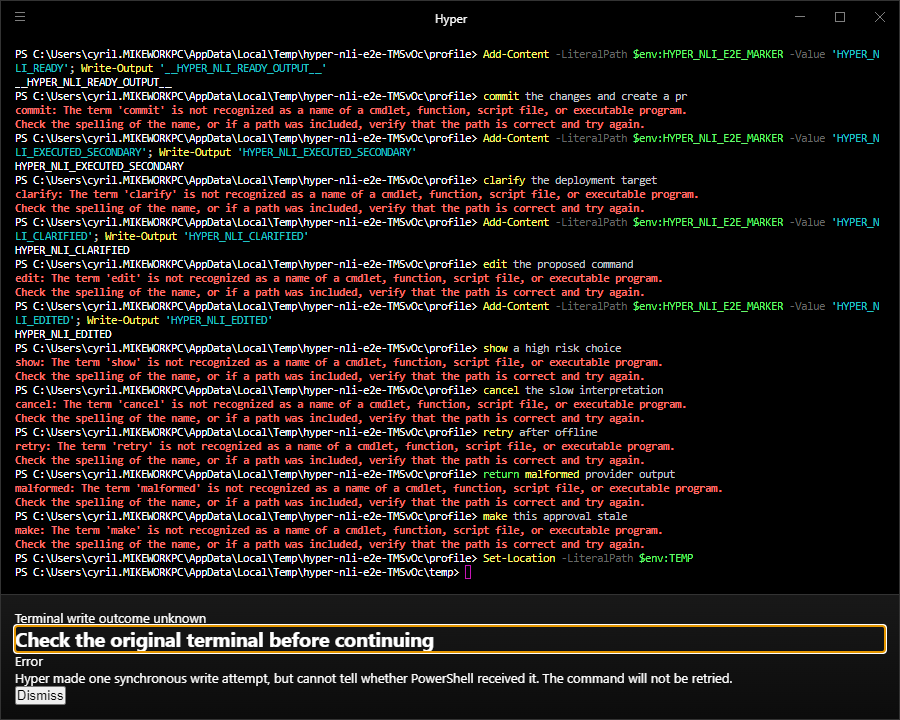
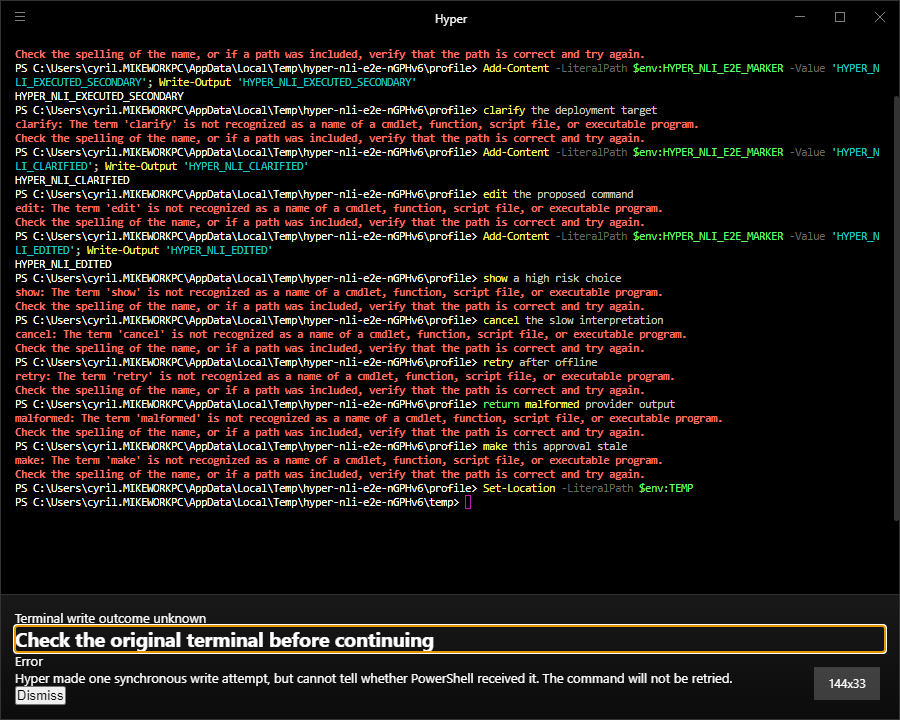
fix(nli): coordinate privacy across windows

Changed region(s): [[0.0, 0.0611, 1.0, 0.825], [0.9022, 0.9167, 0.9956, 0.9778]]

diff --git a/test/unit/nli-window-coordinator.test.ts b/test/unit/nli-window-coordinator.test.ts
@@ -1,0 +1,80 @@
+import {readFileSync} from 'fs';
+import {resolve} from 'path';
+
+import test from 'ava';
+
+import {createNliWindowCoordinator} from '../../app/nli/window-coordinator';
+import type {NliAuthState} from '../../typings/nli';
+
+const makeRegistration = () => {
+  const auth: NliAuthState[] = [];
+  let logoutCalls = 0;
+  let resetCalls = 0;
+  return {
+    auth,
+    get logoutCalls() {
+      return logoutCalls;
+    },
+    get resetCalls() {
+      return resetCalls;
+    },
+    registration: {
+      service: {
+        logout() {
+          logoutCalls++;
+          return Promise.resolve();
+        },
+        resetPrivacyPreferences() {
+          resetCalls++;
+          return Promise.resolve();
+        }
+      },
+      broadcastAuth(state: NliAuthState) {
+        auth.push(state);
+      }
+    }
+  };
+};
+
+test('privacy reset and logout fan out across every registered Hyper window', async (t) => {
+  const coordinator = createNliWindowCoordinator();
+  const first = makeRegistration();
+  const second = makeRegistration();
+  coordinator.register(first.registration);
+  coordinator.register(second.registration);
+
+  await coordinator.resetPrivacy();
+  await coordinator.logout();
+
+  for (const registration of [first, second]) {
+    t.is(registration.resetCalls, 1);
+    t.is(registration.logoutCalls, 1);
+    t.deepEqual(registration.auth, [{status: 'unknown'}, {status: 'signed-out'}]);
+  }
+});
+
+test('unregistered windows cannot receive later privacy or authentication updates', async (t) => {
+  const coordinator = createNliWindowCoordinator();
+  const closed = makeRegistration();
+  const open = makeRegistration();
+  const unregister = coordinator.register(closed.registration);
+  coordinator.register(open.registration);
+
+  unregister();
+  unregister();
+  await coordinator.resetPrivacy();
+  await coordinator.logout();
+
+  t.is(closed.resetCalls, 0);
+  t.is(closed.logoutCalls, 0);
+  t.deepEqual(closed.auth, []);
+  t.is(open.resetCalls, 1);
+  t.is(open.logoutCalls, 1);
+});
+
+test('window RPC routes shared preference reset and logout through the coordinator', (t) => {
+  const source = readFileSync(resolve(__dirname, '../../app/ui/window.ts'), 'utf8');
+  t.regex(source, /rpc\.on\(NLI_RPC_EVENTS\.resetPrivacy,[\s\S]*?nliWindowCoordinator\.resetPrivacy\(\)/);
+  t.regex(source, /rpc\.on\(NLI_RPC_EVENTS\.logout,[\s\S]*?nliWindowCoordinator\.logout\(\)/);
+  t.regex(source, /window\.clean = \(\) => \{[\s\S]*?unregisterNliWindow\(\)/);
+});

diff --git a/app/nli/window-coordinator.ts b/app/nli/window-coordinator.ts
@@ -1,0 +1,44 @@
+import type {NliAuthState} from '../../typings/nli';
+
+import type {NliService} from './service';
+
+export interface NliWindowRegistration {
+  readonly service: Pick<NliService, 'logout' | 'resetPrivacyPreferences'>;
+  readonly broadcastAuth: (auth: NliAuthState) => void;
+}
+
+export interface NliWindowCoordinator {
+  register(registration: NliWindowRegistration): () => void;
+  resetPrivacy(): Promise<void>;
+  logout(): Promise<void>;
+}
+
+class NliWindowCoordinatorImpl implements NliWindowCoordinator {
+  private readonly registrations = new Set<NliWindowRegistration>();
+
+  register(registration: NliWindowRegistration): () => void {
+    this.registrations.add(registration);
+    let registered = true;
+    return () => {
+      if (!registered) return;
+      registered = false;
+      this.registrations.delete(registration);
+    };
+  }
+
+  async resetPrivacy(): Promise<void> {
+    const registrations = [...this.registrations];
+    await Promise.all(registrations.map(({service}) => service.resetPrivacyPreferences()));
+    registrations.forEach(({broadcastAuth}) => broadcastAuth({status: 'unknown'}));
+  }
+
+  async logout(): Promise<void> {
+    const registrations = [...this.registrations];
+    await Promise.all(registrations.map(({service}) => service.logout()));
+    registrations.forEach(({broadcastAuth}) => broadcastAuth({status: 'signed-out'}));
+  }
+}
+
+export const createNliWindowCoordinator = (): NliWindowCoordinator => new NliWindowCoordinatorImpl();
+
+export const nliWindowCoordinator = createNliWindowCoordinator();

diff --git a/app/ui/window.ts b/app/ui/window.ts
@@ -24,6 +24,7 @@ import {executeApprovedCommand} from '../nli/execution';
 import {collectNliGitMetadata} from '../nli/git-metadata';
 import {createNliPreferencesStore} from '../nli/preferences';
 import {NliService} from '../nli/service';
+import {nliWindowCoordinator} from '../nli/window-coordinator';
 import fetchNotifications from '../notifications';
 import notify from '../notify';
 import {decorateSessionOptions, decorateSessionClass} from '../plugins';
@@ -134,6 +135,14 @@ export function newWindow(
     includeGitMetadata: () => cfg.naturalLanguageInterface.includeGitMetadata,
     maxOptions: () => cfg.naturalLanguageInterface.maxOptions,
     collectGitMetadata: collectNliGitMetadata
+  });
+  const unregisterNliWindow = nliWindowCoordinator.register({
+    service: nliService,
+    broadcastAuth: (auth) => {
+      sessions.forEach((_session, sessionUid) => {
+        rpc.emit(NLI_RPC_EVENTS.authState, {sessionUid: sessionUid as SessionUid, auth});
+      });
+    }
   });
 
   const updateBackgroundColor = () => {
@@ -360,10 +369,8 @@ export function newWindow(
       .setPrivacyPreferences(preferences)
       .then(() => nliService.login(sessionUid).then((auth) => rpc.emit(NLI_RPC_EVENTS.authState, {sessionUid, auth})));
   });
-  rpc.on(NLI_RPC_EVENTS.resetPrivacy, ({sessionUid}) => {
-    void nliService
-      .resetPrivacyPreferences()
-      .then(() => rpc.emit(NLI_RPC_EVENTS.authState, {sessionUid, auth: {status: 'unknown'}}));
+  rpc.on(NLI_RPC_EVENTS.resetPrivacy, () => {
+    void nliWindowCoordinator.resetPrivacy();
   });
   rpc.on(NLI_RPC_EVENTS.reject, (request) => {
     nliService.reject(request);
@@ -375,8 +382,8 @@ export function newWindow(
     rpc.emit(NLI_RPC_EVENTS.authState, {sessionUid, auth: {status: 'signing-in'}});
     void nliService.login(sessionUid).then((auth) => rpc.emit(NLI_RPC_EVENTS.authState, {sessionUid, auth}));
   });
-  rpc.on(NLI_RPC_EVENTS.logout, ({sessionUid}) => {
-    void nliService.logout().then(() => rpc.emit(NLI_RPC_EVENTS.authState, {sessionUid, auth: {status: 'signed-out'}}));
+  rpc.on(NLI_RPC_EVENTS.logout, () => {
+    void nliWindowCoordinator.logout();
   });
   rpc.on(NLI_RPC_EVENTS.status, ({sessionUid}) => {
     void nliService.getAuthStatus().then((auth) => rpc.emit(NLI_RPC_EVENTS.authState, {sessionUid, auth}));
@@ -500,6 +507,7 @@ export function newWindow(
   // the window can be closed by the browser process itself
   window.clean = () => {
     app.config.winRecord(window);
+    unregisterNliWindow();
     void nliService.dispose();
     rpc.destroy();
     deleteSessions();

diff --git a/test/unit/nli-codex-app-server.test.ts b/test/unit/nli-codex-app-server.test.ts
@@ -339,7 +339,8 @@ test('browser OAuth accepts only HTTPS, completes ChatGPT login, cancels, and lo
           );
         }
       },
-      'account/read': (message, child) =>
+      'account/read': (message, child) => {
+        t.deepEqual(message.params, {refreshToken: false});
         child.pushMessage(
           response(
             message,
@@ -347,7 +348,8 @@ test('browser OAuth accepts only HTTPS, completes ChatGPT login, cancels, and lo
               ? {account: {type: 'chatgpt', email: '[email redacted]'}, requiresOpenaiAuth: true}
               : {account: null, requiresOpenaiAuth: true}
           )
-        ),
+        );
+      },
       'account/login/cancel': (message, child) => {
         child.pushMessage(response(message, {}));
         child.pushMessage({method: 'account/login/completed', params: {loginId: 'login-2', success: false}});

diff --git a/test/unit/nli-e2e-fixture-provider.test.ts b/test/unit/nli-e2e-fixture-provider.test.ts
@@ -58,7 +58,7 @@ test('fixture responses are deterministic by input and call count, including mal
   t.deepEqual(malformed, {version: 1, kind: 'plan', unexpected: 'invalid'});
 });
 
-test('fixture delay is abortable and only committed repository JSONL paths are accepted', async (t) => {
+test('fixture delay is abortable and only repository JSONL fixture paths are accepted', async (t) => {
   const provider = new NliE2eFixtureProvider(fixturePath);
   await provider.login();
   const controller = new AbortController();

diff --git a/plans/active/terminal-intelligence/001-shell-first-natural-language-interface/understand.md b/plans/active/terminal-intelligence/001-shell-first-natural-language-interface/understand.md
@@ -1,0 +1,38 @@
+# Understanding the delivered system
+
+## User-visible contract
+
+Hyper remains a terminal first. Renderer input follows the existing xterm -> session-data RPC -> `Session.write` -> node-pty path synchronously. NLI does not classify input and cannot delay a valid command. A provider is created only after supported PowerShell emits a nonce-authenticated, strictly parsed command-not-found frame and the ordinary shell error has been flushed visibly.
+
+The user then sees a bounded clarification or one-to-three exact command choices. Model output is untrusted data: main validates the schema, applies deterministic local risk rules, retains the authoritative bytes, and exposes only display data plus opaque IDs. Edits create a new revision. Context changes, new input, replay, pane closure, and shell/cwd changes invalidate approval. High-risk text needs a second confirmation. Main atomically consumes one approval and makes one synchronous, non-retried write attempt to the original PTY.
+
+## Ownership map
+
+- `app/session.ts` owns PTY writes, shell startup integration, private OSC parsing, and visible-output ordering.
+- `app/nli/powershell-integration.ts` preserves interactive PowerShell profiles and prior command lookup handlers while emitting only authoritative unresolved lookups.
+- `app/nli/service.ts` owns attempts, consent/auth gates, stale checks, provider lifecycle, immutable plan authority, approval consumption, and generated-command recursion tags.
+- `app/nli/codex-app-server.ts` is a proposal-only Codex adapter with browser ChatGPT login, keyring-only credentials, a private `CODEX_HOME`, empty cwd, allowlisted environment, disabled tools/apps/hooks/MCP-like extensions/web search, and fail-closed capability checks.
+- `app/nli/window-coordinator.ts` makes per-install Privacy Reset and Logout effective across every open Hyper window.
+- `app/nli/command-plan.ts` validates provider output, screens secret-looking input locally, classifies risk, and binds plan digests.
+- `app/nli/execution.ts` validates the actual IPC sender, sets or clears the service-owned recursion tag, and performs the one original-session write attempt.
+- `lib/components/nli-panel.tsx` and the NLI reducer/actions provide an accessible, per-pane, non-modal review experience without command authority.
+
+## Privacy boundary
+
+Required provider context is the failed line, PowerShell/OS identity, opaque attempt ID, and a one-way cwd fingerprint. Raw cwd, limited Git metadata, and secret-looking input each stay behind explicit preferences. No scrollback, history, environment, clipboard, files, diffs, remote URLs, tokens, or provider stderr cross into renderer state or routine diagnostics. Reset removes the shared non-secret preference file and cancels active work in all windows. Logout asks every live provider to clear the shared keyring-backed Codex login.
+
+## Operational boundary
+
+Automatic fallback currently supports only recognized interactive PowerShell 5.1/7 launches. `cmd.exe`, WSL/SSH wrappers, bash, zsh, fish, arbitrary shells, and conflicting PowerShell modes remain normal terminals. Supporting one later requires a new authoritative adapter with startup/profile preservation, bounded authenticated events, byte preservation, dedupe, visible-error ordering, and the same performance/privacy/approval proofs; output regexes and nonzero exit codes are not acceptable substitutes.
+
+Disabling NLI cancels provider work and prevents integration in future sessions. Existing integrated PowerShell tabs retain their paired hidden parser/hook until closed so private frames never leak into visible terminal output; with the service disabled they perform no AI work. Codex credentials persist until explicit Logout.
+
+## Evidence map
+
+- User and maintainer guide: `docs/natural-language-interface.md`
+- Full acceptance contract: `vision.md` and `plan.md`
+- Unit/PTY/security tests: `test/unit/nli-*.test.ts`
+- Packaged Electron journeys: `test/index.ts`
+- Single-app Windows smoke: `scripts/test-nli-packaged.ps1`
+- Visual and packaged artifacts: `proof/artifacts/task08/`
+- Proof obligation ledger: `proof/manifest.json`

diff --git a/plans/active/terminal-intelligence/001-shell-first-natural-language-interface/summary.md b/plans/active/terminal-intelligence/001-shell-first-natural-language-interface/summary.md
@@ -1,0 +1,33 @@
+# Delivery summary
+
+## Outcome
+
+The feature branch implements an opt-in shell-first natural-language fallback for Hyper. Valid commands and ordinary nonzero exits stay on the original synchronous PTY path with zero provider work. An authoritative PowerShell command-not-found event can open a per-pane Codex proposal flow; the user must select or edit, review, and approve before main writes the accepted command once to the same terminal.
+
+Codex uses the official app-server browser login path through a hidden main-process child. Hyper supplies a private, tool-free configuration, keyring-only credentials, an empty cwd, a newly allowlisted environment, strict structured output, and no token transport. Multiple options, clarification, stale/replay rejection, deterministic risk labels, second confirmation, cancellation, offline/malformed states, generated-command recursion suppression, and cross-window privacy/logout revocation are implemented.
+
+The Windows package opens as one GUI application. The packaged smoke found no child top-level window, console window, surviving descendant, real Hyper/Codex profile mutation, or unremoved validated temporary directory.
+
+## Final verification
+
+- `pnpm test`: passed lint and 113 unit/integration tests.
+- `pnpm run build`: passed Webpack and TypeScript production builds.
+- `pnpm exec electron-builder --win dir --x64 --publish never`: produced the final `dist/win-unpacked/Hyper.exe`.
+- `pnpm test:e2e`: passed 8 real Electron journeys.
+- `scripts/test-nli-packaged.ps1`: passed the isolated one-app/no-dangling-process smoke.
+- Cue proof: 10 obligations verified, 0 pending; desktop and 320 px visual diffs remain below 2%.
+
+The optional live OAuth smoke was not used as an automated gate because it requires an interactive browser account and intentionally writes an OS-keyring credential. Deterministic coverage exercises signed-out, login success/cancel/logout, HTTPS-only URLs, non-refreshing account-status reads, token redaction, keyring failure, 401, rate limit, timeout, crash/restart, and protocol incompatibility without touching the user's account. Session-token refresh remains owned by Codex during use; Hyper never requests, reads, or transports those credentials.
+
+## Correctness-deferred adapters
+
+PowerShell 5.1 and 7 are the only automatic adapters delivered. `cmd.exe`, WSL/SSH/tmux inner shells, bash, zsh, fish, and arbitrary REPLs stay unchanged because they do not yet have an adapter proven to emit authoritative unresolved-command semantics while preserving startup/profile behavior. No output-text regex or exit-code heuristic was added.
+
+## Delivery contents
+
+- Implementation: `app/nli/`, `app/session.ts`, `app/ui/window.ts`, typed RPC/config, and the per-pane renderer workflow.
+- Tests: `test/unit/nli-*.test.ts`, `test/index.ts`, deterministic fixtures, latency checks, and packaged smoke.
+- Documentation: `README.md` and `docs/natural-language-interface.md`.
+- Proof: `proof/manifest.json` and `proof/artifacts/task08/`.
+
+The branch is prepared for an explicit pull request to `dev`; publication, merge verification, and the primary-worktree fast-forward are performed as the final delivery operation.

diff --git a/plans/active/terminal-intelligence/001-shell-first-natural-language-interface/plan.md b/plans/active/terminal-intelligence/001-shell-first-natural-language-interface/plan.md
@@ -114,9 +114,9 @@ Provider interpretation is bounded by requestTimeoutMs and cancellation; OSC par
 
 ## Rollback and local dry run
 
-The immediate kill switch is naturalLanguageInterface.enabled=false, which disposes provider children and transient hook artifacts while leaving future shell args and PTY bytes unchanged. ChatGPT credentials in the OS keyring intentionally persist until the user invokes explicit Logout; disabling, downgrading, or git-reverting cannot promise credential deletion. Documentation requires Logout before downgrade/revert when credential removal is desired and describes safe orphan-hook cleanup. Because config is additive and default-off, old installs ignore the key without a down migration.
+The immediate kill switch is naturalLanguageInterface.enabled=false, which cancels active turns, disposes provider children, and prevents integration in future sessions. An already-running PowerShell tab retains its paired parser and in-process hook until that tab closes so private frames cannot become visible PTY bytes; its disabled service performs no AI work. ChatGPT credentials in the OS keyring intentionally persist until the user invokes explicit Logout; disabling, downgrading, or git-reverting cannot promise credential deletion. Documentation requires Logout before downgrade/revert when credential removal is desired and describes safe orphan-hook cleanup. Because config is additive and default-off, old installs ignore the key without a down migration.
 
-No CI/deploy workflow changes are required. The release dry run is local and non-publishing: pnpm run build, then pnpm exec electron-builder --win dir --x64 --publish never, then run the PowerShell packaged smoke against dist/win-unpacked/Hyper.exe and verify the Codex child is hidden and terminates with Hyper.
+No CI/deploy workflow changes are required. The release dry run is local and non-publishing: pnpm run build, then pnpm exec electron-builder --win dir --x64 --publish never, then run the isolated PowerShell packaged smoke against dist/win-unpacked/Hyper.exe to verify one GUI app, no child top-level window, descendant cleanup, profile isolation, and exact temporary cleanup. Provider seam tests separately verify that the real Codex child is spawned with `windowsHide: true` and is terminated with Hyper.
 
 The feature branch and pull request must target dev explicitly. Do not target the repository's older default canary branch. After merge, fast-forward the local dev worktree.
 
@@ -138,10 +138,10 @@ Final acceptance requires evidence that:
 - One unresolved PowerShell command produces exactly one fallback after ordinary error output.
 - Existing PowerShell command lookup handlers, profiles, prompts, Unicode, and two simultaneous sessions remain correct.
 - cmd.exe and other unsupported shells are unchanged and do not heuristically trigger.
-- Sign-in, cancel, token refresh behavior, logout, offline, timeout, malformed output, incompatible protocol, and app-server crash are handled.
+- Sign-in, cancel, logout, offline, timeout, malformed output, incompatible protocol, and app-server crash are handled; in-use token refresh stays delegated to Codex without token transport through Hyper.
 - No tokens, scrollback, history, environment, file content, or command plans leak to logs, Redux beyond display data, electron-store, crash payloads, or spawned terminal environments.
 - Selecting, editing, rejecting, approving, stale invalidation, high-risk confirmation, and the single-write-attempt contract work by keyboard and screen reader.
-- The packaged Windows app spawns Codex with no console window and cleans it up on exit.
+- The packaged Windows app remains one GUI application with no child top-level window or surviving descendant; provider seam tests require real Codex spawns to use `windowsHide: true` and cleanup on exit.
 
 ## Verification
 

diff --git a/plans/active/terminal-intelligence/001-shell-first-natural-language-interface/proof/artifacts/task08/verification.md b/plans/active/terminal-intelligence/001-shell-first-natural-language-interface/proof/artifacts/task08/verification.md
@@ -1,10 +1,10 @@
-# Task 08 verification
+# Final feature verification
 
-Verified on Windows x64 on 2026-07-22 against the unpacked application built from this task's source tree.
+Verified on Windows x64 on 2026-07-22 against the final unpacked application built from the feature branch.
 
 ## Automated gates
 
-- `pnpm test`: passed lint and 110 unit/integration tests. The suite includes executable PowerShell 7 and Windows PowerShell 5.1 node-pty seams, 10,000-dispatch latency tests, provider cold-path assertions, anti-spoofing, pane isolation, immutable approval, and exact-once write behavior.
+- `pnpm test`: passed lint and 113 unit/integration tests. The suite includes executable PowerShell 7 and Windows PowerShell 5.1 node-pty seams, 10,000-dispatch latency tests, provider cold-path assertions, anti-spoofing, pane isolation, immutable approval, single-write-attempt behavior, and cross-window Privacy Reset/Logout fanout.
 - `pnpm run build`: passed Webpack and both TypeScript builds.
 - `pnpm exec electron-builder --win dir --x64 --publish never`: passed and produced `dist/win-unpacked/Hyper.exe`.
 - `pnpm test:e2e`: passed 8 packaged Electron scenarios covering disabled setup, unsupported-shell guidance, privacy and fixture-backed ChatGPT sign-in, alternatives, clarification, edit/reapproval, high risk, cancellation, explicit retry, malformed output, stale input/cwd, original-PTY execution, focus recovery, failure states, and the 320px panel layout.

diff --git a/plans/active/terminal-intelligence/001-shell-first-natural-language-interface/vision.md b/plans/active/terminal-intelligence/001-shell-first-natural-language-interface/vision.md
@@ -102,7 +102,7 @@ The feature is off by default, capability-checked, cancelable, and observable th
   - Returns an immutable supported/unsupported decision and safe augmented args; never mutates caller arrays or process.env.
 - createPowerShellIntegration(options: {sessionUid: string; nonce: string; scriptDirectory: string}): PowerShellIntegration
   - Materializes a non-secret hook and cleanup handle; preserves profiles and an existing lookup handler.
-- OscEventParser.push(chunk: string): {visible: string; events: ShellSemanticEvent[]}
+- OscEventParser.push(chunk: string): OscParseResult
   - Incrementally parses bounded private frames, preserves all non-frame bytes exactly, and never throws on PTY data.
 - interface NliProvider
   - getAuthStatus, login, cancelLogin, logout, interpret(context, signal), dispose. Implementations validate and return only NliProviderResult values.
@@ -115,8 +115,10 @@ The feature is off by default, capability-checked, cancelable, and observable th
   - Deterministic advisory classification independent of model labels.
 - Renderer actions openNliSetup, dismissNli, selectNliOption, beginNliEdit, updateNliEdit, cancelNliEdit, saveNliEdit, approveNli, rejectNli, clarifyNli, retryNli, loginNli, logoutNli, saveNliPrivacy, resetNliPrivacy.
 - NliPanel props are display state and callbacks only; command authority remains in main.
+- createNliWindowCoordinator(): NliWindowCoordinator
+  - Creates the main-process coordinator whose `register` method returns an idempotent unregister callback and whose `resetPrivacy` and `logout` methods apply shared revocation to every live window before broadcasting the resulting auth state.
 - Existing Session.write(data: string) remains the sole PTY write primitive used for both user and approved NLI bytes.
-- Session.isWritable(): boolean exposes only whether that original PTY can currently accept the approved write.
+- Session writability remains an internal boolean guard used only at the original PTY approval boundary.
 
 ### Internals
 

diff --git a/docs/natural-language-interface.md b/docs/natural-language-interface.md
@@ -119,7 +119,7 @@ Credentials are owned by Codex and must remain in the operating-system keyring. 
 
 - **Unsupported shell:** start a new interactive PowerShell 5.1 or 7 tab. Hyper intentionally cannot infer natural language from `cmd.exe` or WSL output.
 - **Codex missing:** run `codex --version` from PowerShell or set an absolute `codexExecutable` path.
-- **Codex incompatible:** install a compatible Codex CLI. Version 0.144.6 is the minimum, but the required app-server methods and locked-down config must also pass startup checks.
+- **Codex incompatible:** install a compatible Codex CLI. Version 0.144.6 is the minimum. Startup checks initialization and locked-down config; account and thread/turn methods are checked lazily when first used.
 - **Keyring unavailable:** restore the operating-system credential store. Hyper will not save credentials to a file.
 - **Private storage unavailable:** check write permissions for Hyper's user-data directory. No login or command is queued.
 - **Offline, rate-limited, or timed out:** the original terminal failure has already completed and remains visible. Retry explicitly; nothing is queued.

diff --git a/plans/active/terminal-intelligence/001-shell-first-natural-language-interface/tasks/10-final-integration-and-delivery.md b/plans/active/terminal-intelligence/001-shell-first-natural-language-interface/tasks/10-final-integration-and-delivery.md
@@ -10,7 +10,7 @@ Run the complete feature as a user would, close remaining gaps, and deliver it t
 - [ ] Re-read goal context, vision, every acceptance criterion, blindspot report, and all three plan-review findings.
 - [ ] Run the complete verification matrix and inspect git diff for secrets, generated noise, unrelated changes, and interface drift.
 - [ ] Exercise valid, valid-failing, natural-language missing command, alternatives, edit/reapproval, reject, sign-in/cancel, offline, generated failure, two panes, and unsupported cmd.exe with deterministic automation plus the optional live smoke.
-- [ ] Exercise the unpacked Windows app to confirm one Hyper app, hidden Codex child, and no dangling console/process.
+- [ ] Exercise the isolated unpacked Windows app to confirm one Hyper GUI, no child top-level window, and no dangling descendant; verify the real Codex `windowsHide: true` and cleanup contract through the provider seam.
 - [ ] Update understand.md and summary.md only after all tasks pass.
 - [ ] Run git fetch origin dev; push the feature branch; run gh pr create --base dev --head feature/terminal-intelligence/001-shell-first-natural-language-interface; run gh pr checks --watch; merge that PR into dev; then from E:\repo\hyper run git pull --ff-only origin dev while preserving unrelated .cue/memory content.
 